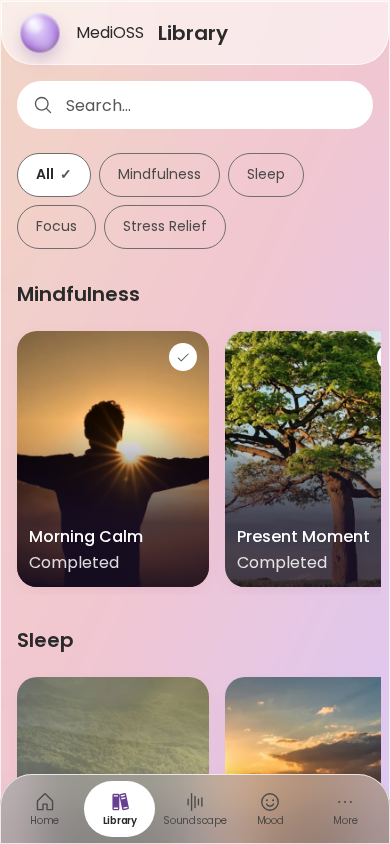
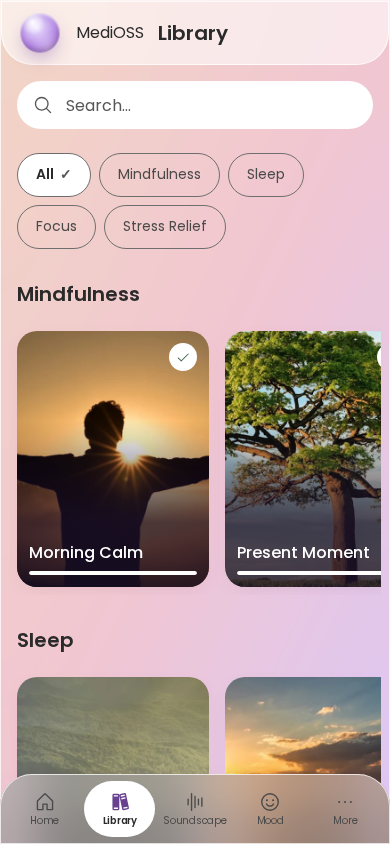
feat(web-ui): show Library progress as a fill bar on the card
The Library cards' progress moves from a text percentage in the meta
line to a thin fill bar at the cover's bottom edge (overlay cards);
"Completed" text is dropped where the check badge already carries the
state. The bar is decorative; the meta line keeps the text equivalent
for screen readers via the card's title/aria where applicable.

Changed region(s): [[0.5846, 0.6161, 0.9538, 0.7085], [0.0615, 0.6161, 0.4923, 0.7085]]

diff --git a/src/apps/web-ui/src/lib/screens/library/library-content.svelte b/src/apps/web-ui/src/lib/screens/library/library-content.svelte
@@ -21,6 +21,7 @@
     type Meditation,
     type Program,
   } from "$lib/api/meditation";
+
   import { type ServerReason } from "$lib/api/server-reason";
   import { failureMessage, reasonOf } from "$lib/api/failure";
   import ContentCard from "$lib/components/content/content-card.svelte";
@@ -33,10 +34,6 @@
   import { formatDuration } from "$lib/i18n/formatting/duration-format";
   import { locale, t } from "$lib/i18n/locale.svelte";
   import { libraryQuery } from "$lib/library/library-query.svelte";
-  import {
-    meditationProgressLabel,
-    programProgressLabel,
-  } from "$lib/meditation/progress-label";
   import { ROUTES, playerHref } from "$lib/navigation/routes";
   import { session } from "$lib/session/session.svelte";
   import { groupPrograms } from "./library-groups";
@@ -194,8 +191,12 @@
               title={meditation.name}
               meta={[
                 formatDuration(meditation.duration_ms, locale.current, "short"),
-                meditationProgressLabel(meditation, locale.current),
               ].filter((item): item is string => item !== null)}
+              progress={meditation.completed
+                ? 1
+                : meditation.progress_percent > 0
+                  ? meditation.progress_percent / 100
+                  : undefined}
               coverUrl={meditation.program_has_cover && meditation.program_id
                 ? programCoverUrl(meditation.program_id)
                 : null}
@@ -261,9 +262,9 @@
                   class="max-w-48"
                   href={programHref(program.id)}
                   title={program.title}
-                  meta={[
-                    programProgressLabel(program.progress, locale.current),
-                  ].filter((item): item is string => item !== null)}
+                  progress={program.progress == null
+                    ? undefined
+                    : program.progress}
                   coverUrl={program.has_cover
                     ? programCoverUrl(program.id)
                     : null}

diff --git a/src/apps/web-ui/src/lib/components/content/content-card.svelte b/src/apps/web-ui/src/lib/components/content/content-card.svelte
@@ -11,7 +11,9 @@
   parts, joined by an aria-hidden bullet), `coverUrl`, `artworkSeed`,
   `artworkCategory`, `completed`, `headingLevel` (2 | 3 | 4, default 3),
   `actions` (Snippet), `overlay` (image-first variant: the title and meta sit
-  on the cover over a dark scrim and nothing renders below it; default false), `compact` (smaller artwork, text and
+  on the cover over a dark scrim and nothing renders below it; default false),
+  `progress` (0..1, overlay only: a thin fill bar at the cover's bottom edge
+  instead of a text percentage), `compact` (smaller artwork, text and
   spacing for horizontal rows; default false), `aspect` ("4/3" | "3/4" |
   "3/2" thumbnail ratio; default "4/3", or "3/2" when `compact`), `class`.
   Without `href` the card is a button: `onselect` runs on click, `ariaLabel`
@@ -48,6 +50,7 @@
     actions?: Snippet;
     compact?: boolean;
     overlay?: boolean;
+    progress?: number;
     class?: string;
   };
 
@@ -67,6 +70,7 @@
     actions,
     compact = false,
     overlay = false,
+    progress,
     class: className,
   }: Props = $props();
 
@@ -132,6 +136,20 @@
         <span class="absolute inset-x-0 bottom-0 flex flex-col gap-0.5 p-3">
           {@render heading("text-(--ink-on-image)")}
           {@render metaLine("text-(--ink-on-image-muted)")}
+          {#if progress != null}
+            <!-- The fill itself is decorative (state is in the check badge
+                 and the bar position); SR users get the same signal from
+                 the meta line's text. -->
+            <span
+              aria-hidden="true"
+              class="mt-1 block h-1 overflow-hidden rounded-full bg-white/25"
+            >
+              <span
+                class="block h-full rounded-full bg-white"
+                style={`width:${Math.min(Math.max(progress, 0), 1) * 100}%`}
+              ></span>
+            </span>
+          {/if}
         </span>
       {/if}
       {#if completed}
